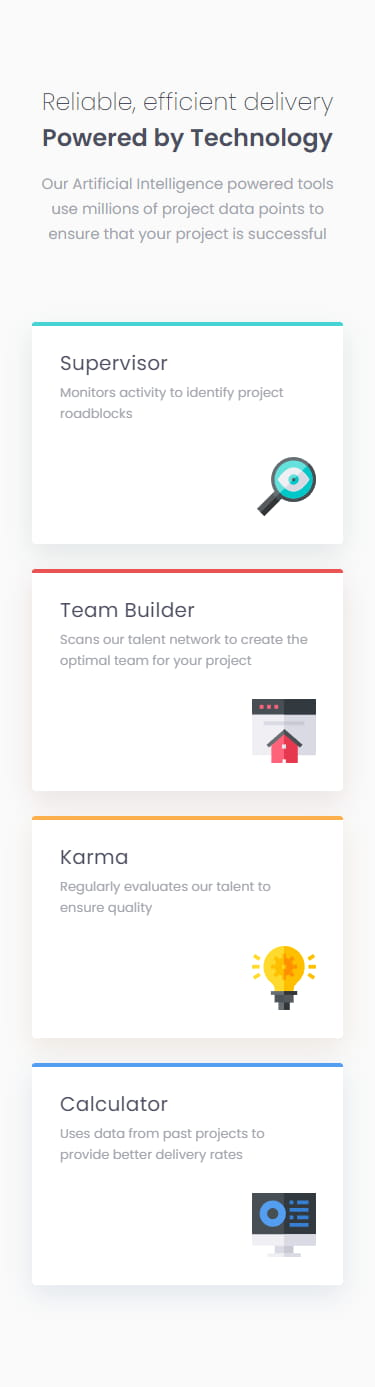
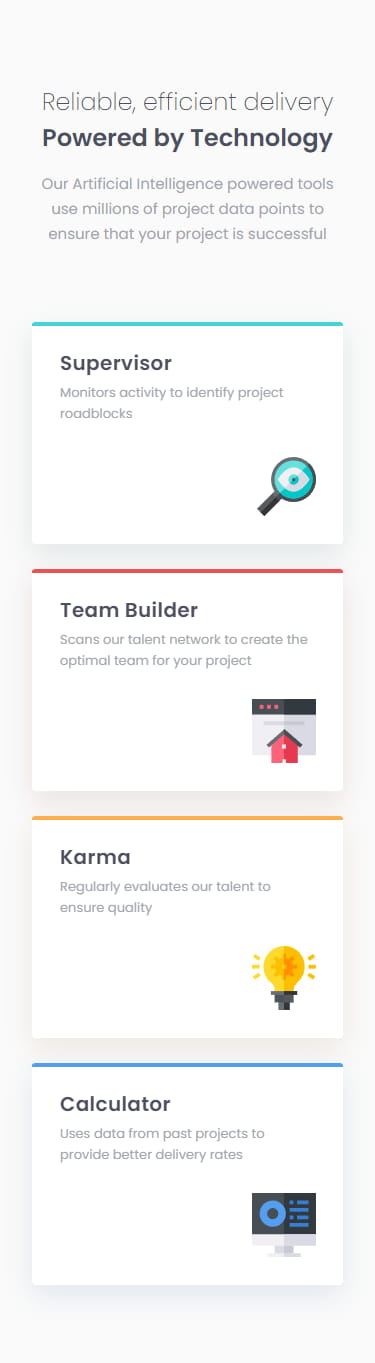
[06-four-card-feature-section] design: card title weight

Changed region(s): [[0.088, 0.2157, 0.9093, 0.6779], [0.088, 0.6779, 0.9093, 0.9244], [0.1173, 0.0616, 0.88, 0.1849]]

diff --git a/src/06-four-card-feature-section/styles/styles.scss b/src/06-four-card-feature-section/styles/styles.scss
@@ -163,7 +163,7 @@ body {
   .card__title {
     flex: 0 0 auto;
 
-    @include fonts.poppins(20px, 400);
+    @include fonts.poppins(20px, 600);
 
     color: colors.$neutral-very-dark-blue;
     letter-spacing: 0.017em;
